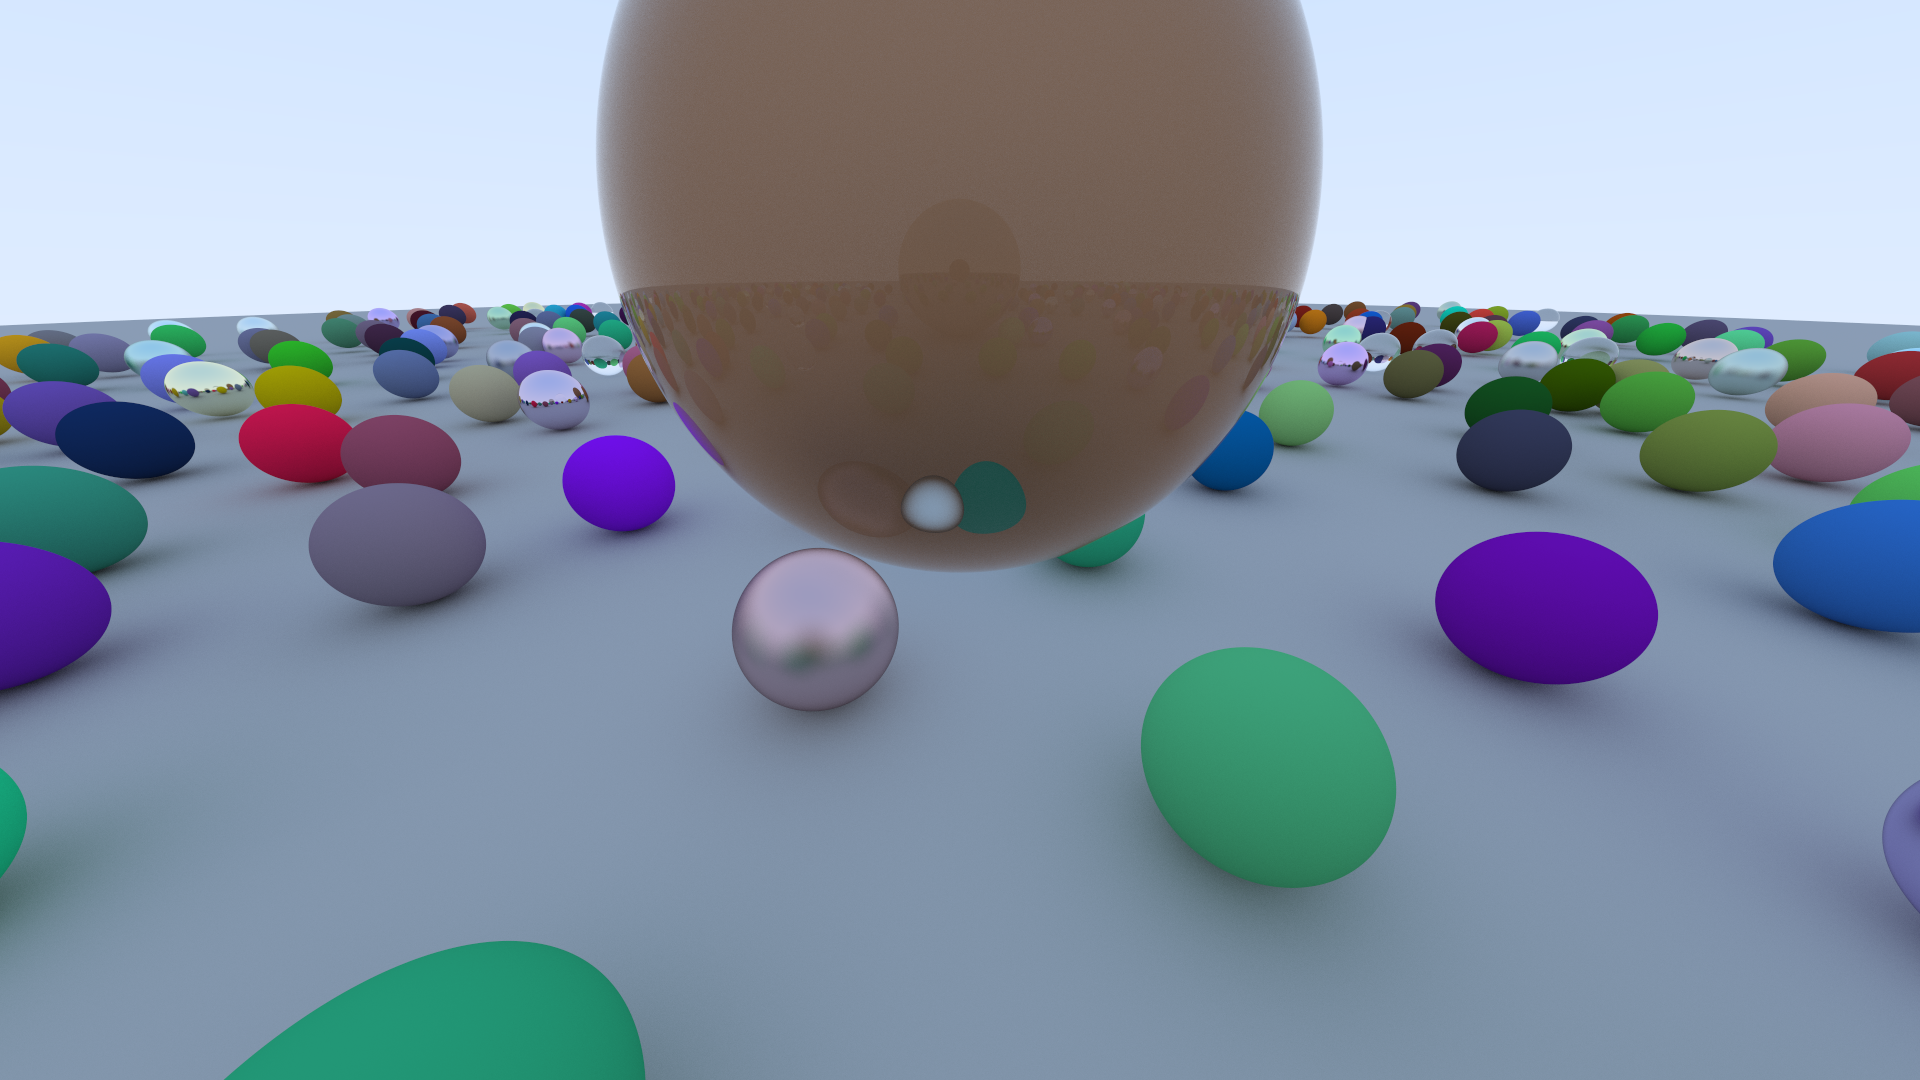
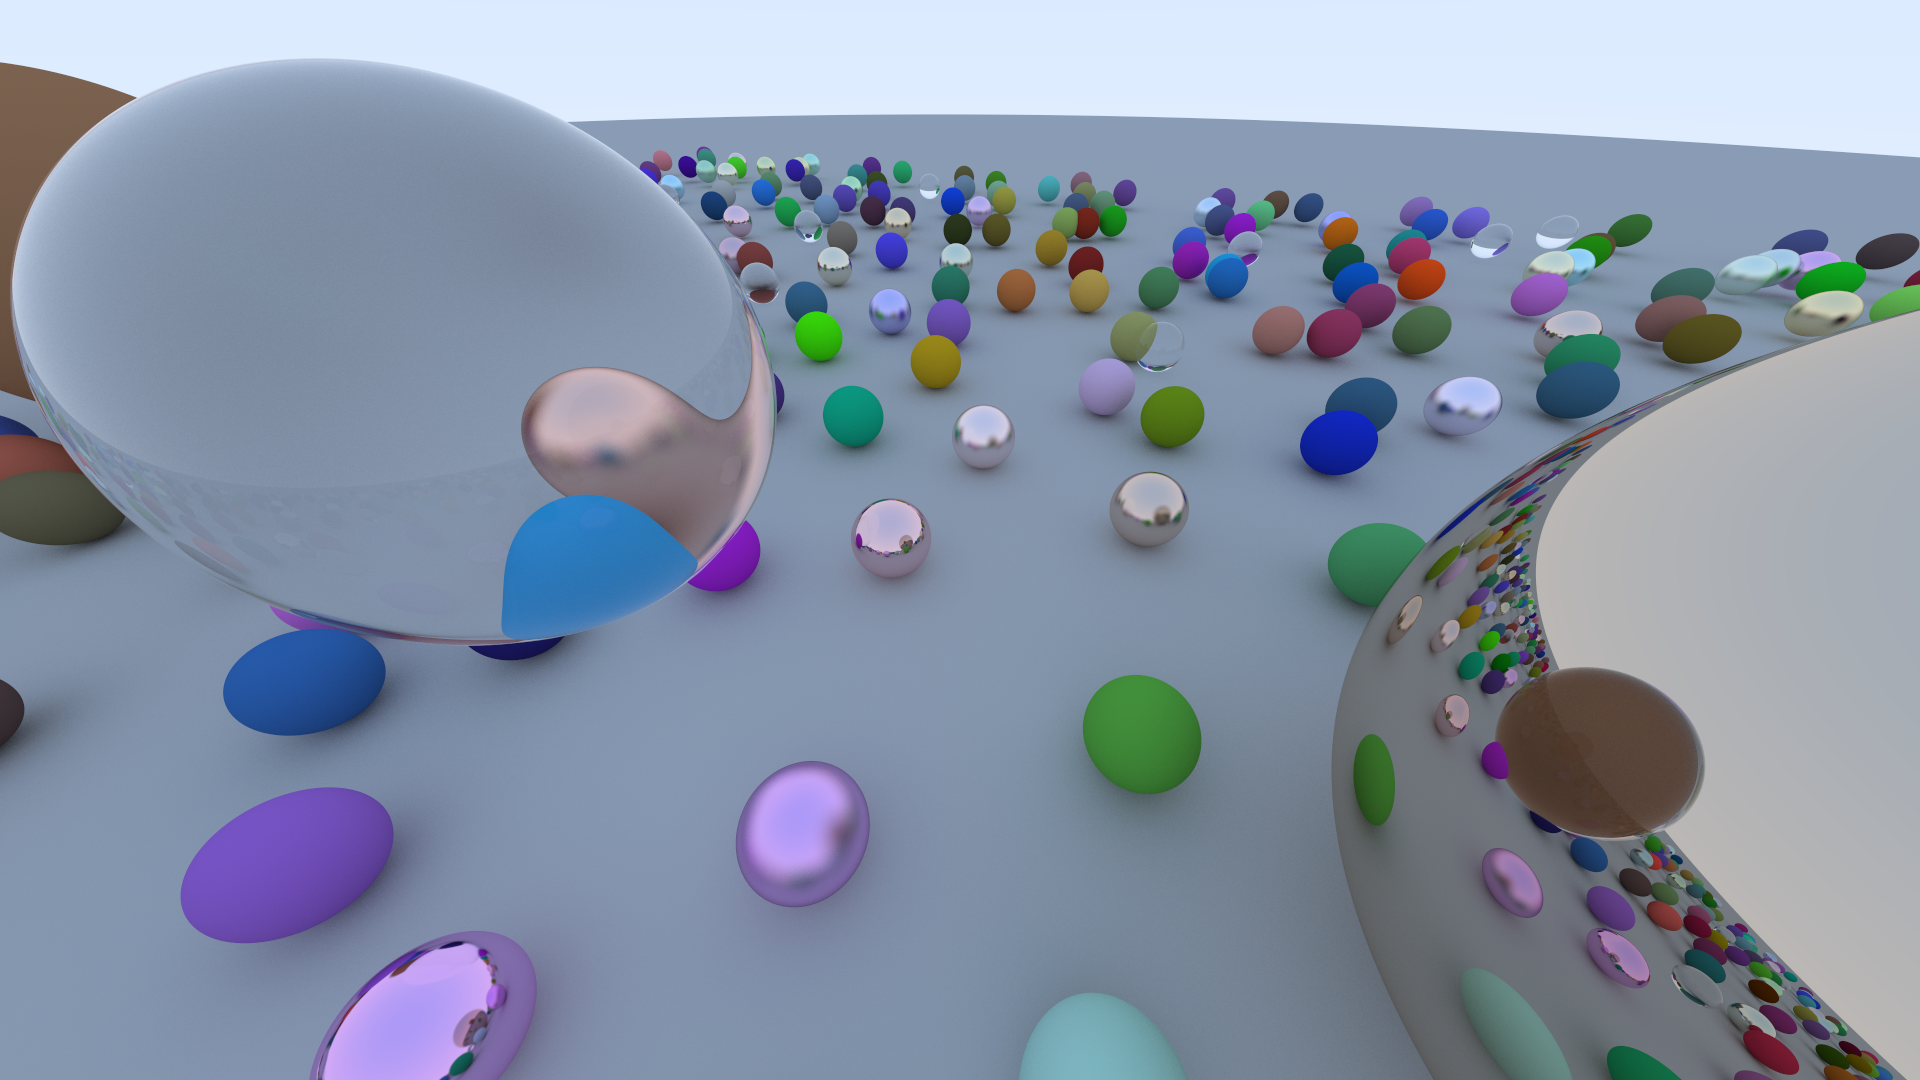
high quality render test 2

diff --git a/src/main.cpp b/src/main.cpp
@@ -40,8 +40,8 @@ int main() {
   
   // Camera setup
   double aspect_ratio = double(width)/height;
-  Vec3 lookfrom(2, 1, 0);
-  Vec3 lookat(0, 0, 0);
+  Vec3 lookfrom(2.5, 2, 1);
+  Vec3 lookat(2, 1, 0);
   Vec3 vup(0, 1, 0);
   double focus_dist = (lookfrom - lookat).norm();
   double aperture = 0.0;
